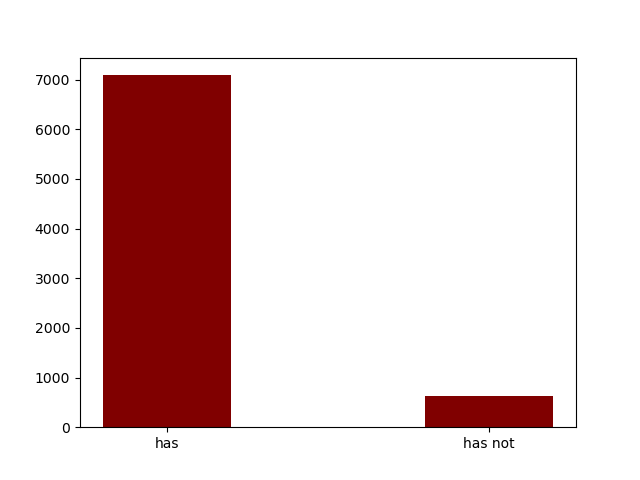
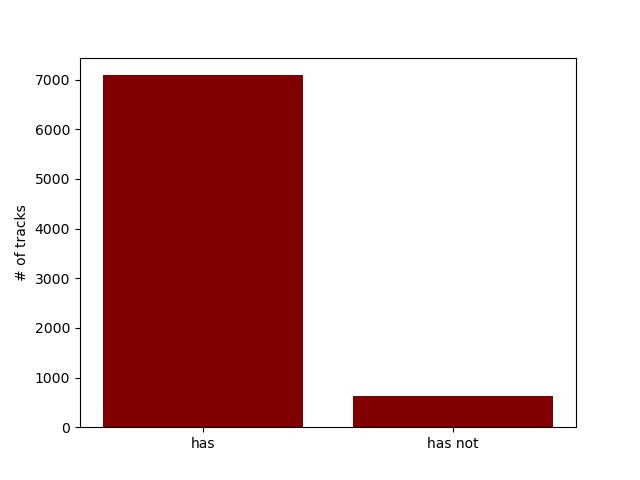
Albums and Tracks distribution by year

diff --git a/src/analyze_albums_and_tracks_by_year.py b/src/analyze_albums_and_tracks_by_year.py
@@ -1,0 +1,17 @@
+from sys import argv
+import matplotlib.pyplot as plt
+import pandas as pd
+from matplotlib.patches import Rectangle
+
+filename = argv[1]
+
+df = pd.read_csv(filename, sep=";")
+
+df_group = df.groupby('album')['album_release_date'].max()
+
+plt.hist(df['album_release_date'], range(1935, 2025, 5))
+plt.hist(df_group, range(1935, 2025, 5))
+handles = [Rectangle((0, 0), 1, 1, color=c, ec="k") for c in ['C0', 'C1']]
+plt.legend(handles, ['Tracks', 'Albums'])
+plt.xlabel('Release date')
+plt.savefig('analysis/albums_and_tracks_by_year.png')

diff --git a/src/analyze_albums_by_year.py b/src/analyze_albums_by_year.py
@@ -1,0 +1,14 @@
+from sys import argv
+import matplotlib.pyplot as plt
+import pandas as pd
+
+filename = argv[1]
+
+df = pd.read_csv(filename, sep=";")
+
+df_group = df.groupby('album')['album_release_date'].max()
+
+plt.hist(df_group, range(1935, 2025, 5))
+plt.xlabel('Album release date')
+plt.ylabel('# of albums')
+plt.savefig('analysis/albums_by_year.png')

diff --git a/src/analyze_lyrics_existence.py b/src/analyze_lyrics_existence.py
@@ -8,5 +8,6 @@ df = pd.read_csv(filename, sep=';')
 hasnot = df['lyrics'].isna().sum()
 has = df['lyrics'].shape[0] - hasnot
 
-plt.bar(['has', 'has not'], [has, hasnot], color ='maroon', width = 0.4)
+plt.bar(['has', 'has not'], [has, hasnot], color ='maroon')
+plt.ylabel('# of tracks')
 plt.savefig('analysis/tracks_lyrics_existence.png')

diff --git a/src/analyze_tracks_by_year.py b/src/analyze_tracks_by_year.py
@@ -1,0 +1,11 @@
+from sys import argv
+import matplotlib.pyplot as plt
+import pandas as pd
+
+filename = argv[1]
+
+df = pd.read_csv(filename, sep=';')
+plt.hist(df['album_release_date'].values, range(1935, 2025, 5))
+plt.xlabel('Track release date')
+plt.ylabel('# of tracks')
+plt.savefig('analysis/tracks_by_year.png')
